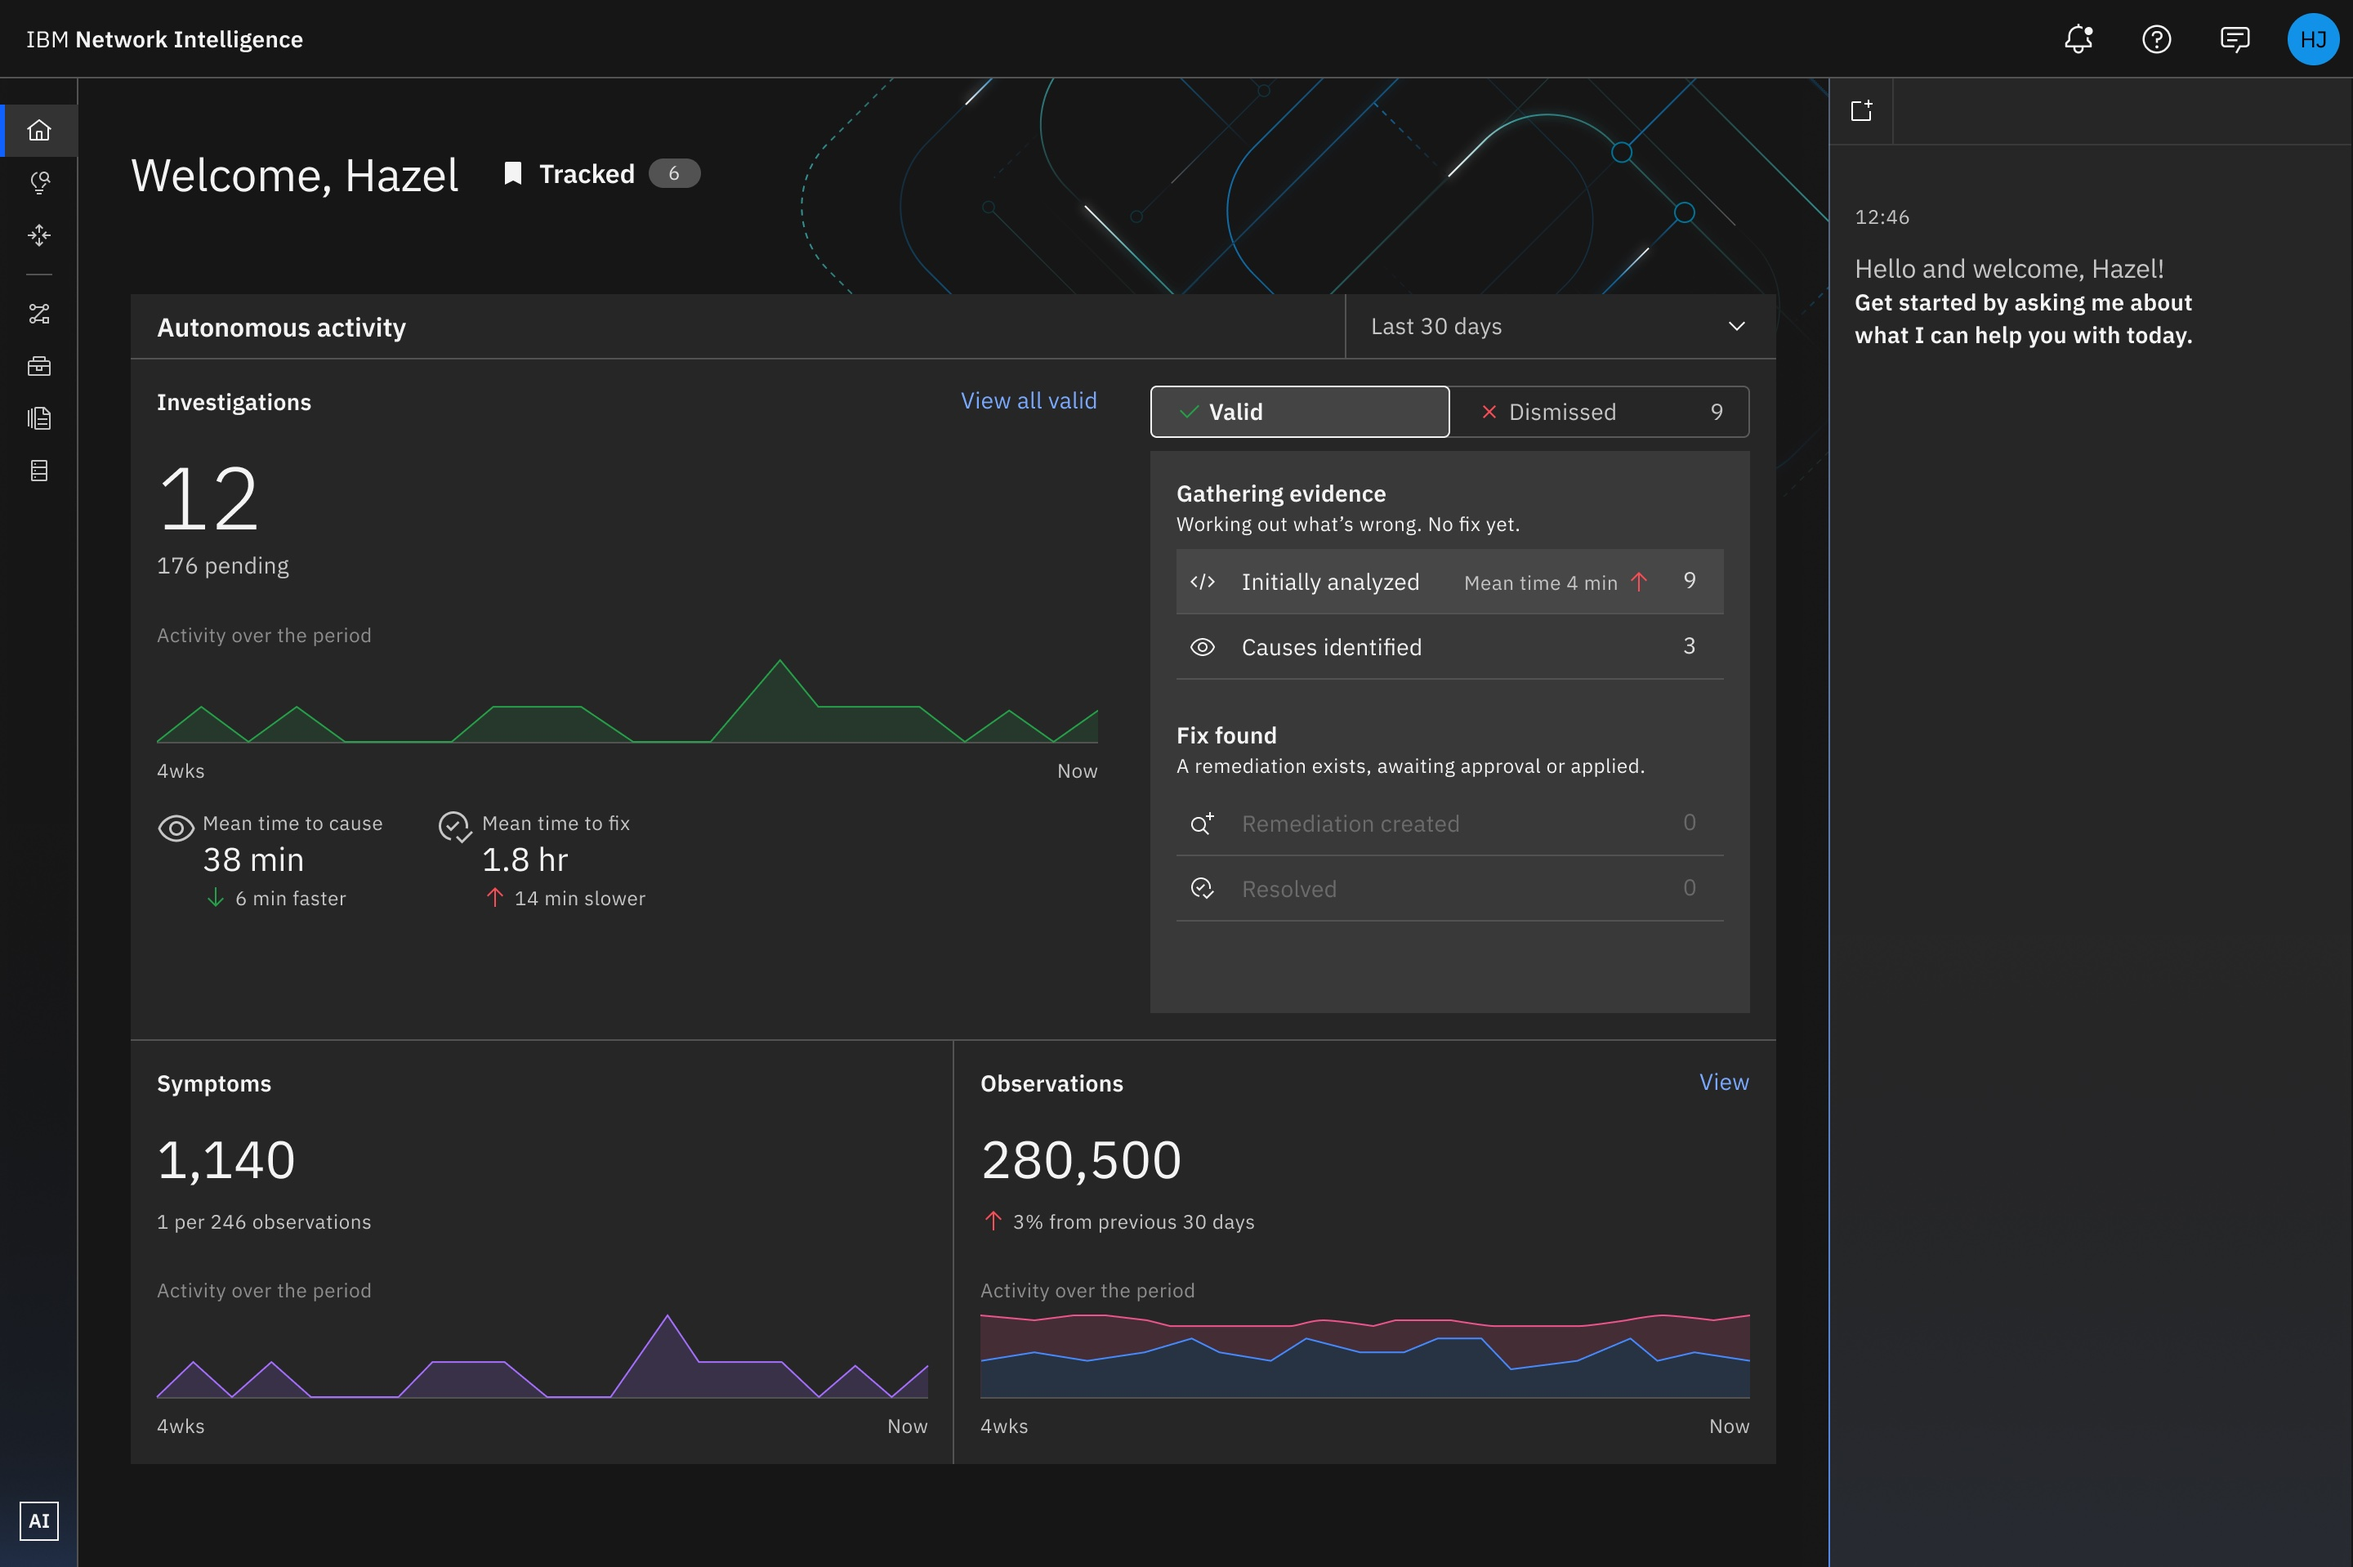
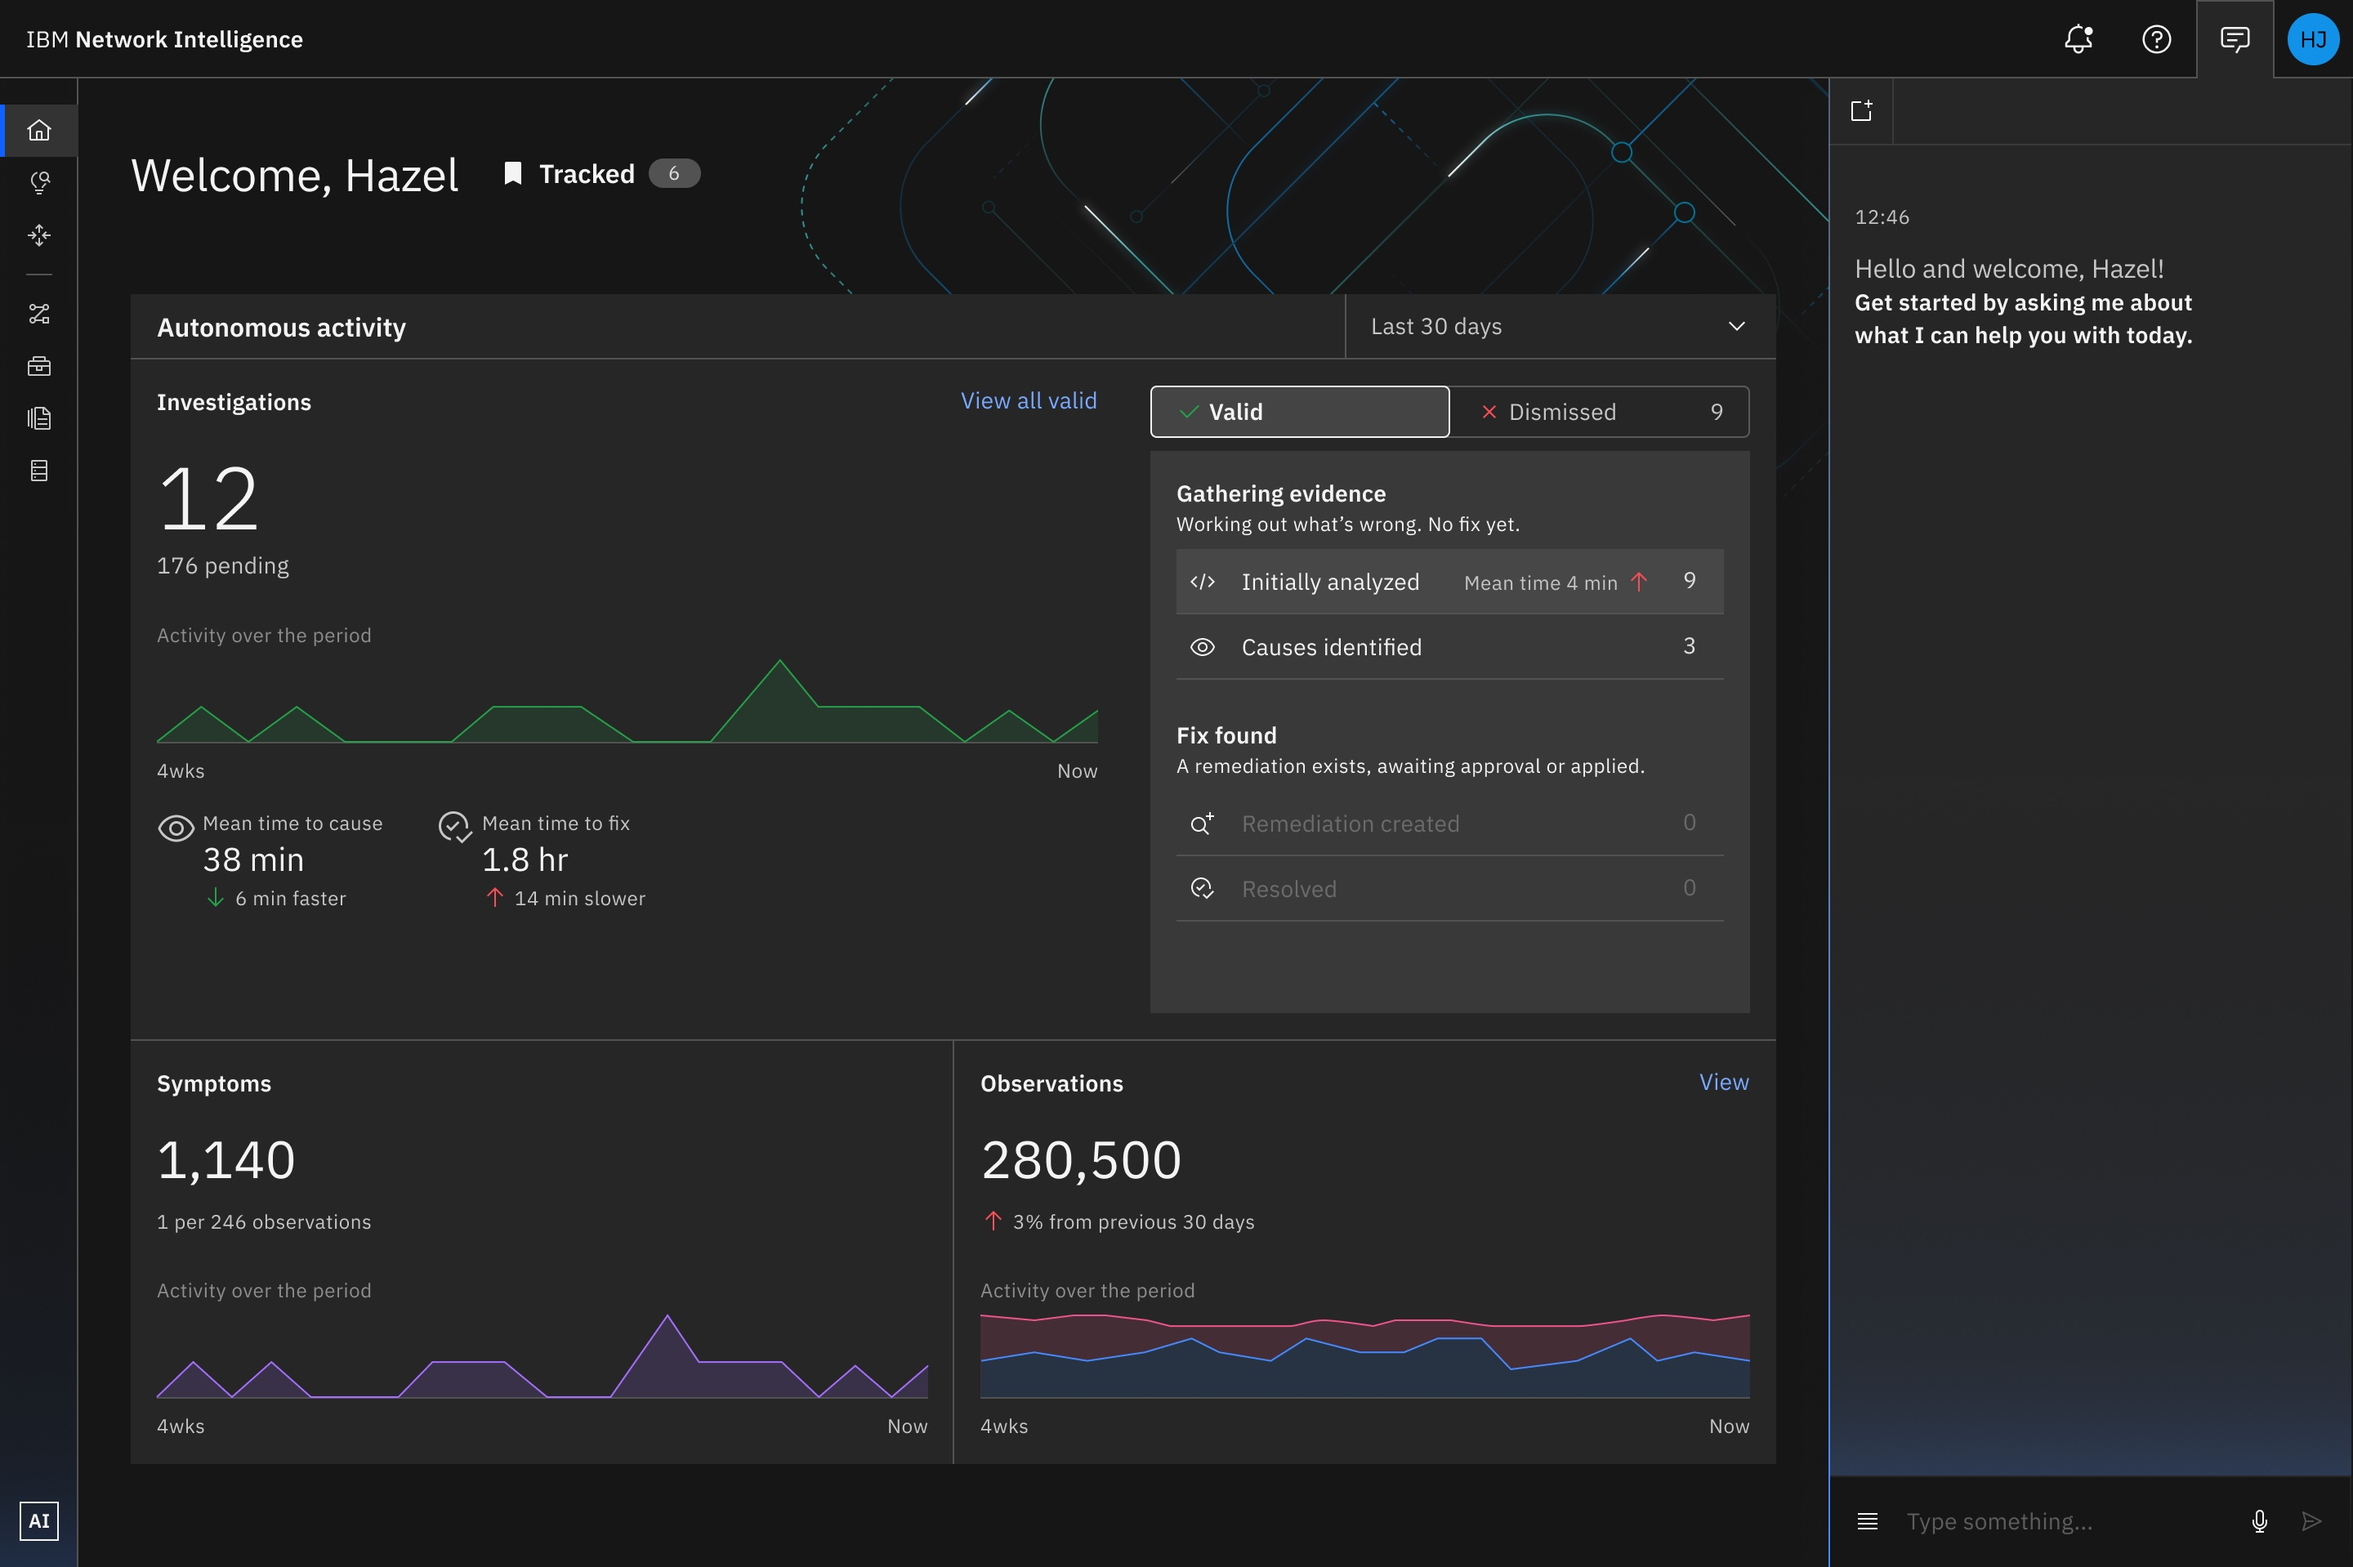
IBM Network Intelligence: dashboard image with the chat composer showing
Claude-Session: https://claude.ai/code/session_015puUGQoG1Hi4xVnqWgeCNk

Changed region(s): [[0.7812, 0.8921, 1.0, 1.0]]

diff --git a/network-intelligence.html b/network-intelligence.html
@@ -144,7 +144,7 @@
           </div>
         </div>
         <div style="margin-bottom: 40px">
-          <img src="/images/work/ini-dashboard.jpg?v=3" alt="IBM Network Intelligence home: autonomous activity over the last 30 days, with investigations by stage, mean time to cause and fix, symptoms, observations and the AI assistant" />
+          <img src="/images/work/ini-dashboard.jpg?v=4" alt="IBM Network Intelligence home: autonomous activity over the last 30 days, with investigations by stage, mean time to cause and fix, symptoms, observations and the AI assistant" />
         </div>
         <hr />
         <div>
